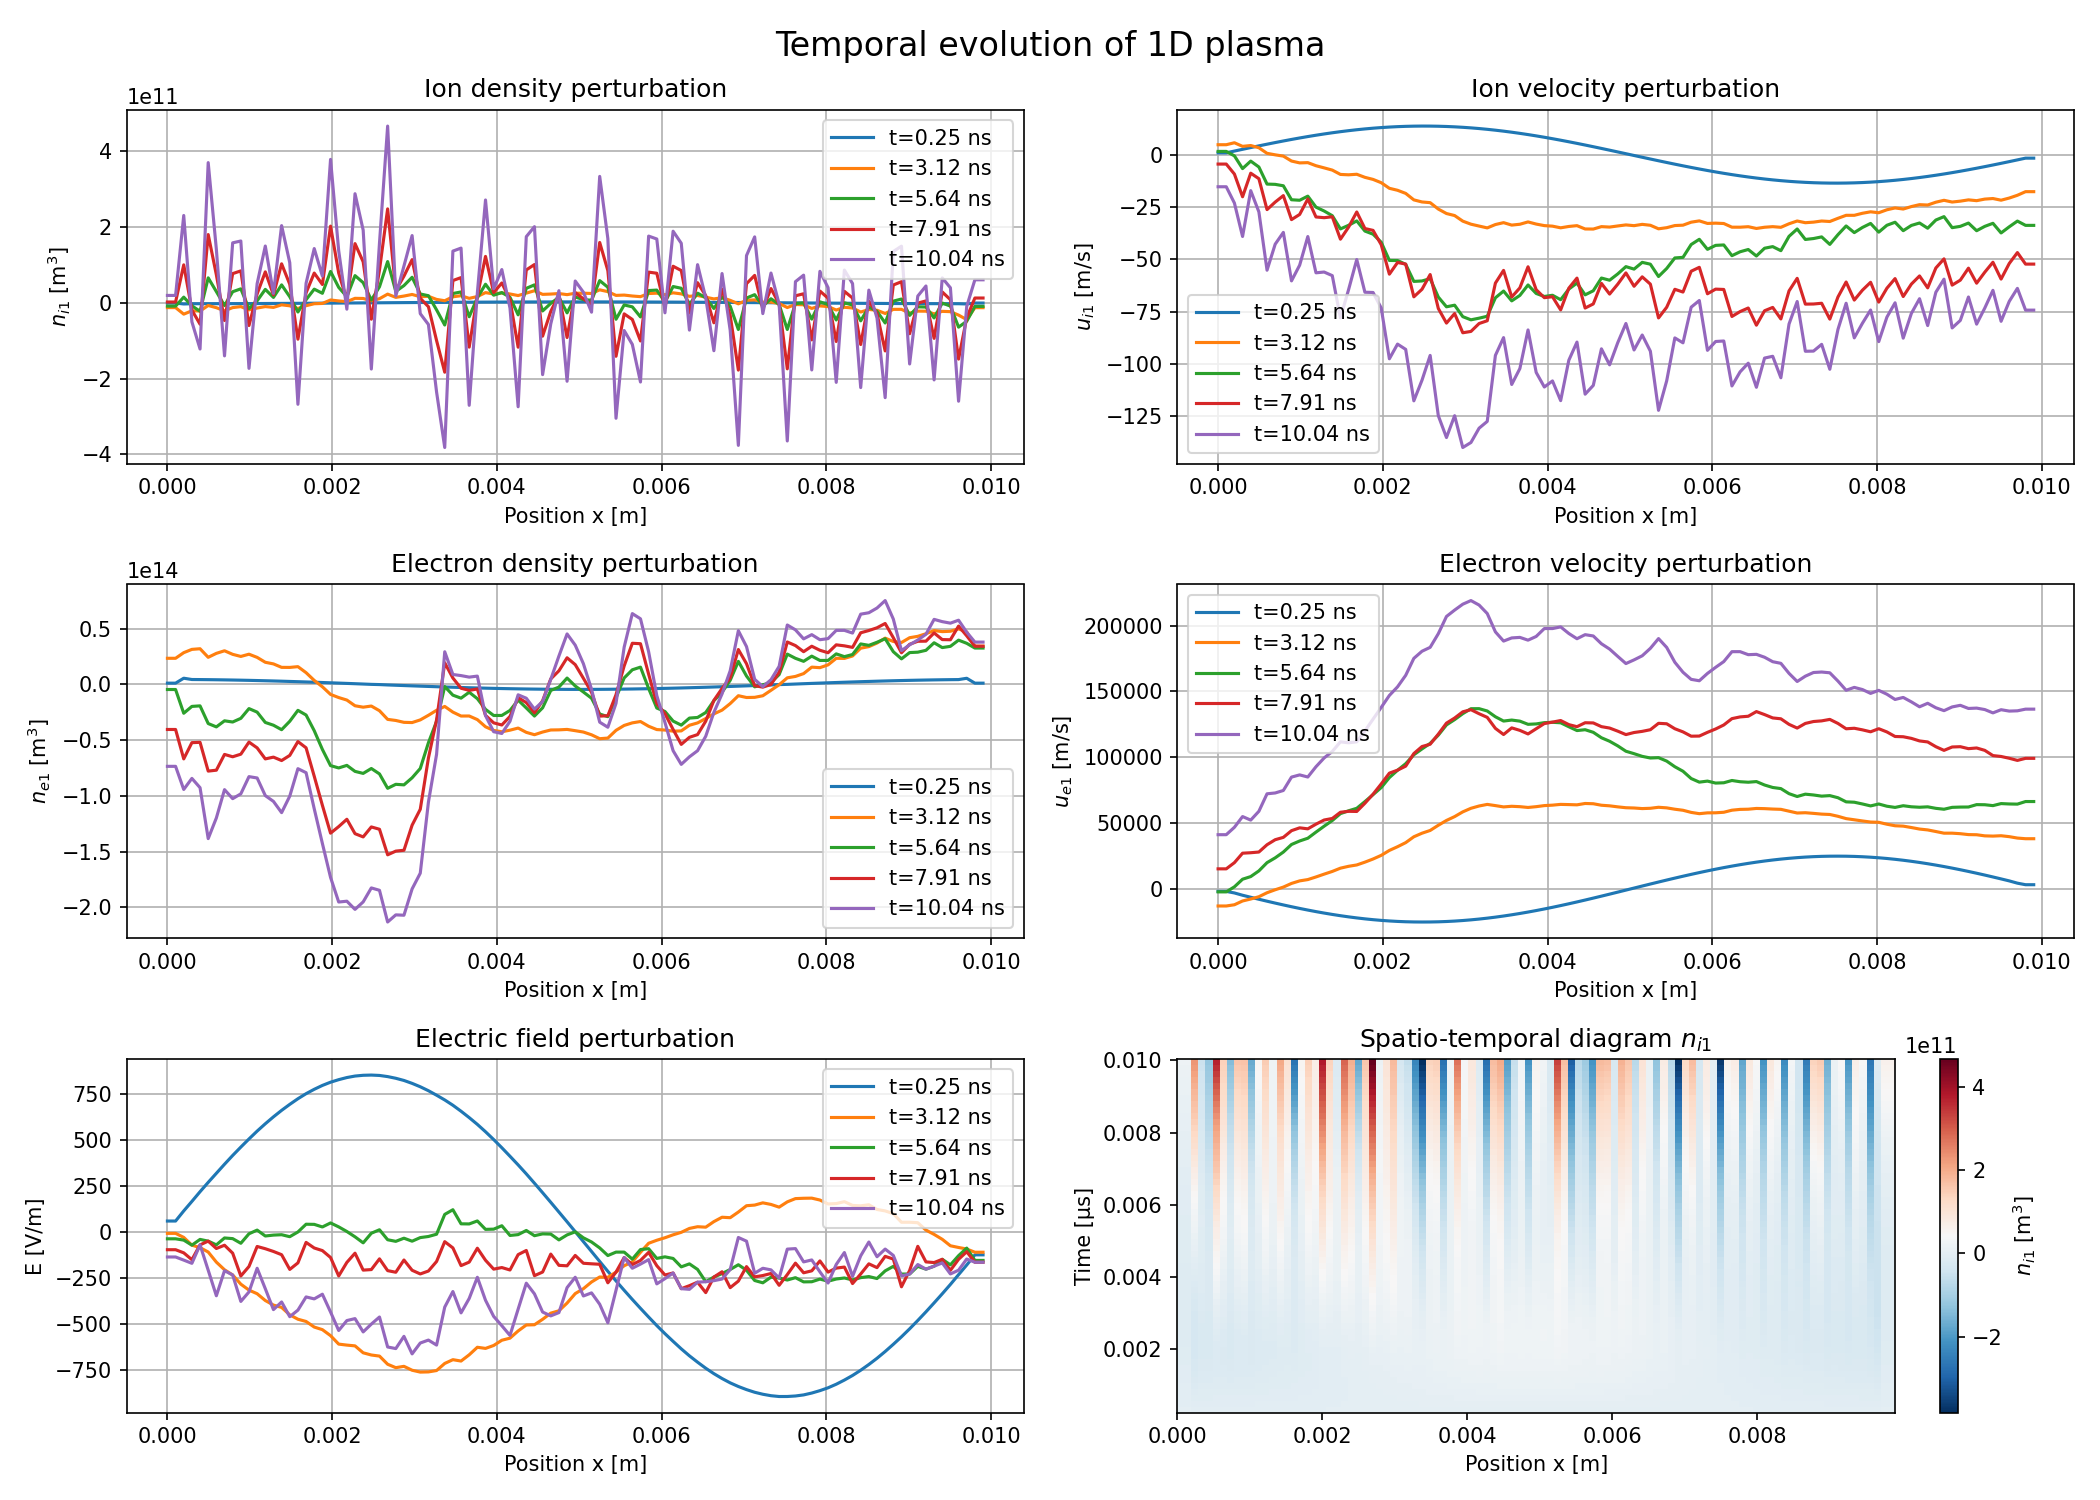
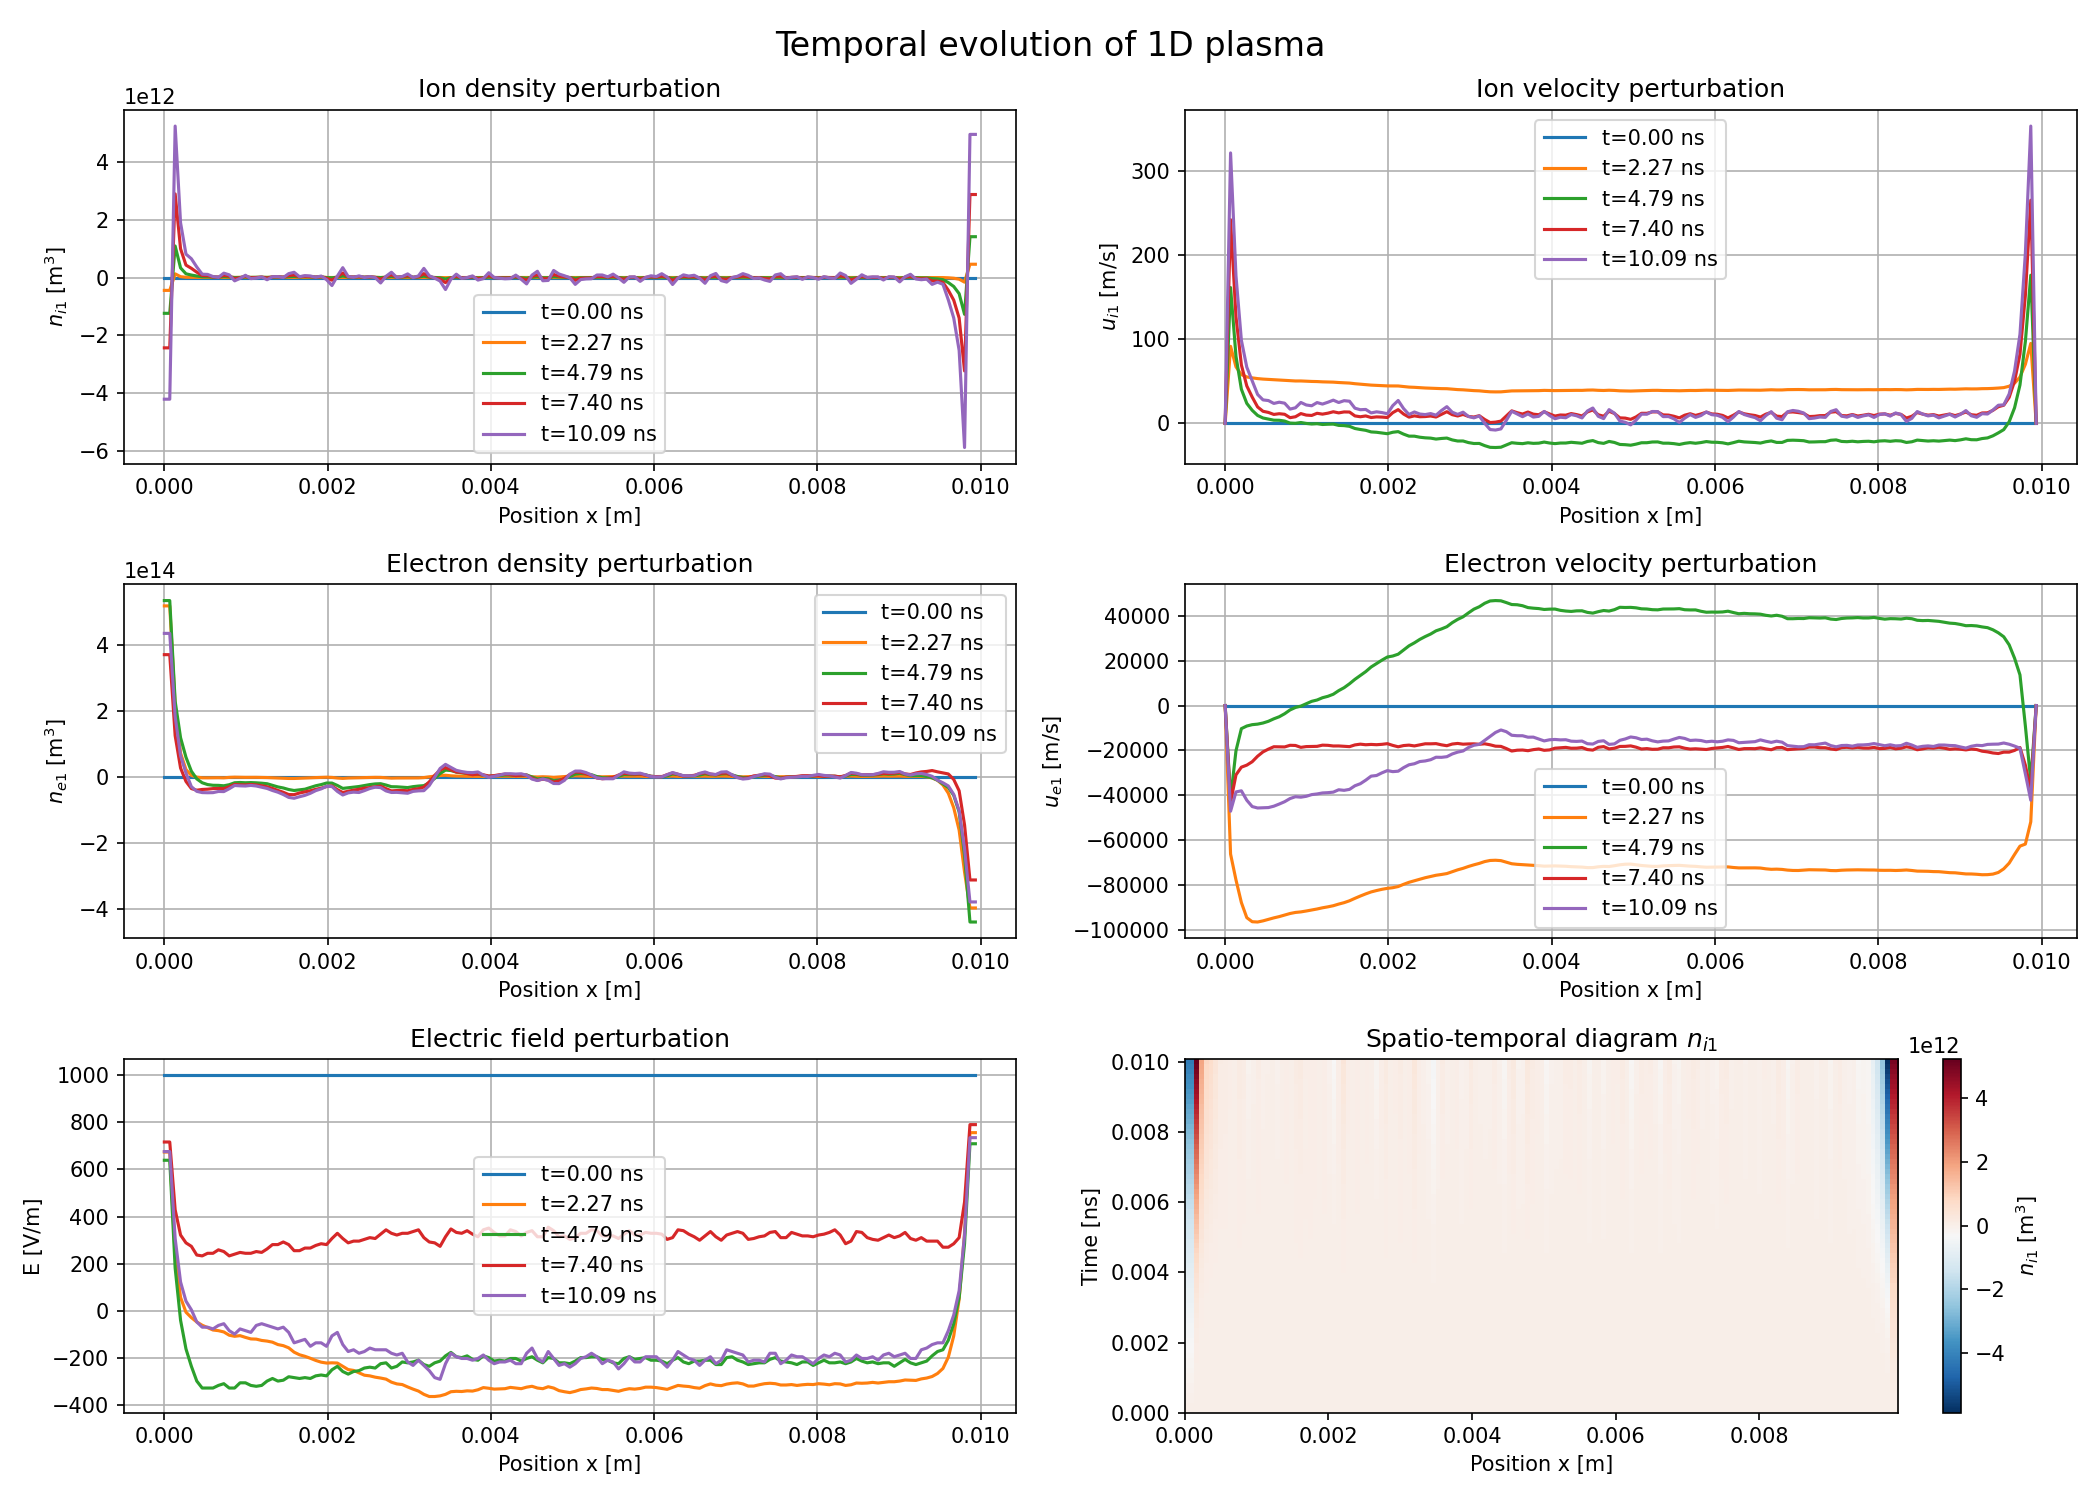
Using boundary condition function

diff --git a/src/plasma.cpp b/src/plasma.cpp
@@ -40,8 +40,8 @@ void PlasmaSystem::calc_electric_field(Eigen::VectorXd& Phi_in, Eigen::VectorXd&
 void PlasmaSystem::apply_boundary_conditions(Eigen::VectorXd& n_e, Eigen::VectorXd& n_i,
                                         Eigen::VectorXd& u_e, Eigen::VectorXd& u_i) {
     // Mirror boundary conditions at both ends
-    n_i(0) = 0;         n_i(m_Nx) = 0;
-    n_e(0) = 0;         n_e(m_Nx) = 0;
+    n_i(0) = n_i(1);         n_i(m_Nx) = n_i(m_Nx-1);
+    n_e(0) = n_e(1);         n_e(m_Nx) = n_e(m_Nx-1);
     u_i(0) = 0;         u_i(m_Nx) = 0;
     u_e(0) = 0;         u_e(m_Nx) = 0;
 }
@@ -170,10 +170,7 @@ void PlasmaSystem::step_euler() {
     }
     
     // Apply mirror boundary conditions to star state
-    m_n_i_star(0) = m_n_i_star(1); m_n_i_star(m_Nx) = m_n_i_star(m_Nx - 1);
-    m_n_e_star(0) = m_n_e_star(1); m_n_e_star(m_Nx) = m_n_e_star(m_Nx - 1);
-    m_u_i_star(0) = m_u_i_star(1); m_u_i_star(m_Nx) = m_u_i_star(m_Nx - 1);
-    m_u_e_star(0) = m_u_e_star(1); m_u_e_star(m_Nx) = m_u_e_star(m_Nx - 1);
+    apply_boundary_conditions( m_n_e_star, m_n_i_star, m_u_e_star, m_u_i_star);
 
     // === STAGE 2: Corrector (Heun's averaging) ===
     calc_potential(m_n_i_star, m_n_e_star, m_Phi_star);
@@ -207,10 +204,7 @@ void PlasmaSystem::step_euler() {
     }
     
     // Apply mirror boundary conditions to final state
-    m_n_i1(0) = m_n_i1(1); m_n_i1(m_Nx) = m_n_i1(m_Nx - 1);
-    m_n_e1(0) = m_n_e1(1); m_n_e1(m_Nx) = m_n_e1(m_Nx - 1);
-    m_u_i1(0) = m_u_i1(1); m_u_i1(m_Nx) = m_u_i1(m_Nx - 1);
-    m_u_e1(0) = m_u_e1(1); m_u_e1(m_Nx) = m_u_e1(m_Nx - 1);
+    apply_boundary_conditions( m_n_e1, m_n_i1, m_u_e1, m_u_i1);
 
     // Update electric field for next time step
     calc_potential(m_n_i1, m_n_e1, m_Phi);

diff --git a/src/plot_time.py b/src/plot_time.py
@@ -100,7 +100,7 @@ ax = axes[2, 1]
 extent = [x_grid[0], x_grid[-1], time[0]*1e6, time[-1]*1e6]
 im = ax.imshow(n_i1_time, aspect='auto', origin='lower', extent=extent, cmap='RdBu_r')
 ax.set_xlabel("Position x [m]")
-ax.set_ylabel("Time [μs]")
+ax.set_ylabel("Time [ns]")
 ax.set_title(r"Spatio-temporal diagram $n_{i1}$")
 plt.colorbar(im, ax=ax, label=r"$n_{i1}$ [m$^3$]")
 
@@ -137,7 +137,7 @@ time_text = fig_anim.suptitle('', fontsize=12)
 def animate(frame):
     for line, data in zip(lines, data_arrays):
         line.set_ydata(data[frame, :])
-    fig_anim.suptitle(f"Animation de l'évolution temporelle - Temps: {time[frame]*1e6:.3f} μs", fontsize=14)
+    fig_anim.suptitle(f"Animation de l'évolution temporelle - Temps: {time[frame]*1e9:.3f} ns", fontsize=14)
     return lines
 
 anim = FuncAnimation(fig_anim, animate, frames=Nt, interval=50, blit=True, repeat=True)

diff --git a/src/main.cpp b/src/main.cpp
@@ -10,7 +10,7 @@ int main() {
     // Spatial domain
     double x0 = 0.0;              // Start position [m]
     double xf = 1e-2;              // End position [m]
-    int Nx = 100;                 // Number of spatial points
+    int Nx = 150;                 // Number of spatial points
     double dx = (xf - x0) / (Nx + 1);
     
     // Spatial grid
@@ -75,7 +75,7 @@ int main() {
     double amp_E0 = 1e3; // Amplitude of electric potential perturbation [V]
     Eigen::VectorXd E0(Nx+1);
     for (int i = 0; i < Nx; ++i) {
-        E0(i) = amp_E0 * std::sin(2.0 * M_PI * x_grid[i] / (xf - x0));
+        E0(i) = amp_E0;
     }    
     E0(Nx) = E0(Nx - 1); // Mirror boundary condition
     system.set_constant_electric_field(E0);

diff --git a/include/plasma.hpp b/include/plasma.hpp
@@ -328,6 +328,7 @@ public:
         
         std::cout << "\n=== Initializing output files ===" << std::endl;
         init_time_files(x_grid, prefix);
+        append_time_data(t);  // Save initial state
         
         std::cout << "Starting simulation..." << std::endl;
         
